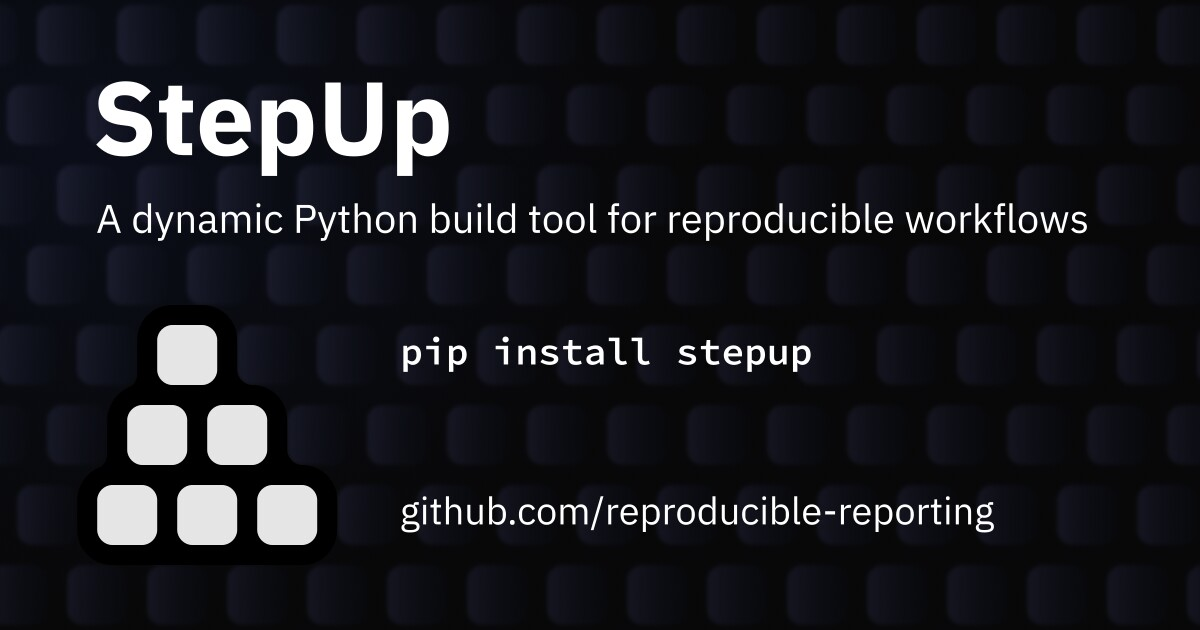
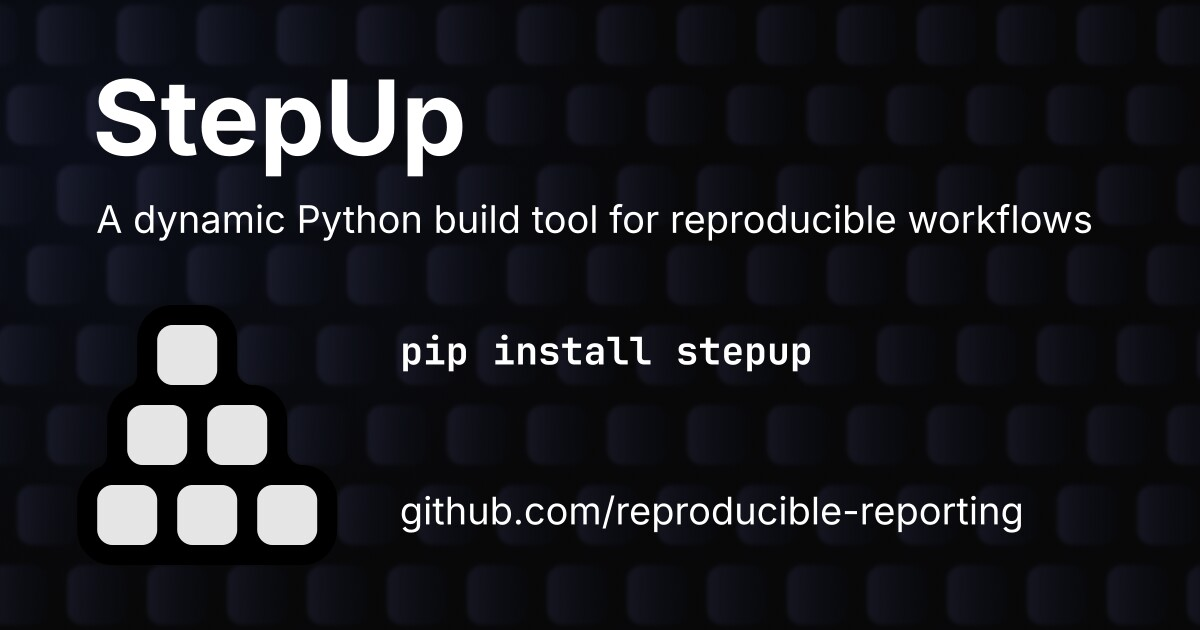
Make fonts consistent

diff --git a/docs/CLAUDE.md b/docs/CLAUDE.md
@@ -60,8 +60,11 @@ because it hands the SVG to the JPEG output extension instead of a rasterized im
 Three properties of the source must hold, and none of them is checked automatically:
 
 - The card measures 1200 by 630 pixels, the size the meta tags declare.
-- The text is set in IBM Plex Sans and Source Code Pro as live text, not as paths,
+- The text is set in Inter and JetBrains Mono as live text, not as paths,
   so those fonts have to be installed for the export to look right.
+  They are the default fonts of the `modern` theme variant of Zensical,
+  which the site uses because `zensical.toml` sets neither a variant nor a font,
+  so a change of either there calls for the same change in the card.
   Without them, Inkscape silently substitutes and the card changes.
 - The tagline is kept in step with the other copies by `snipwise.md`,
   which locates it through the `id="tagline"` attribute of its `tspan`.
